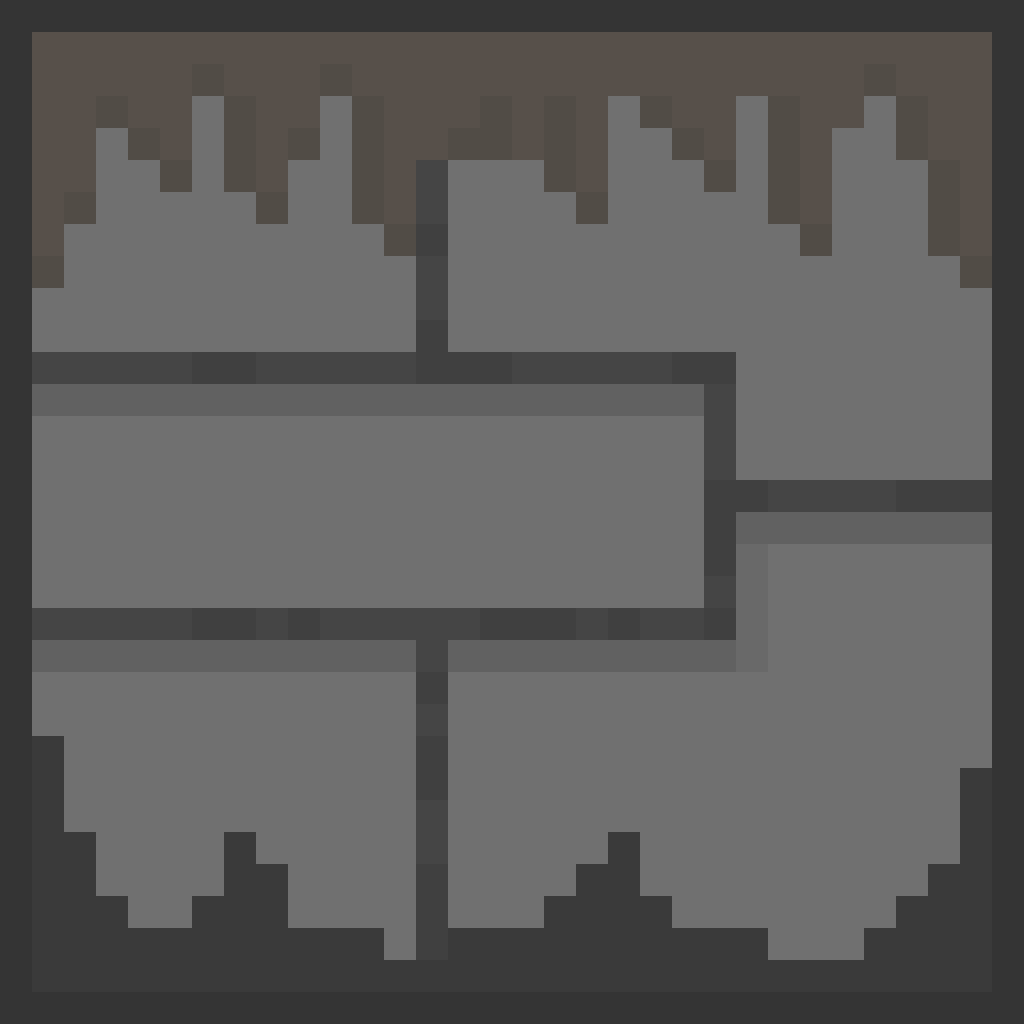
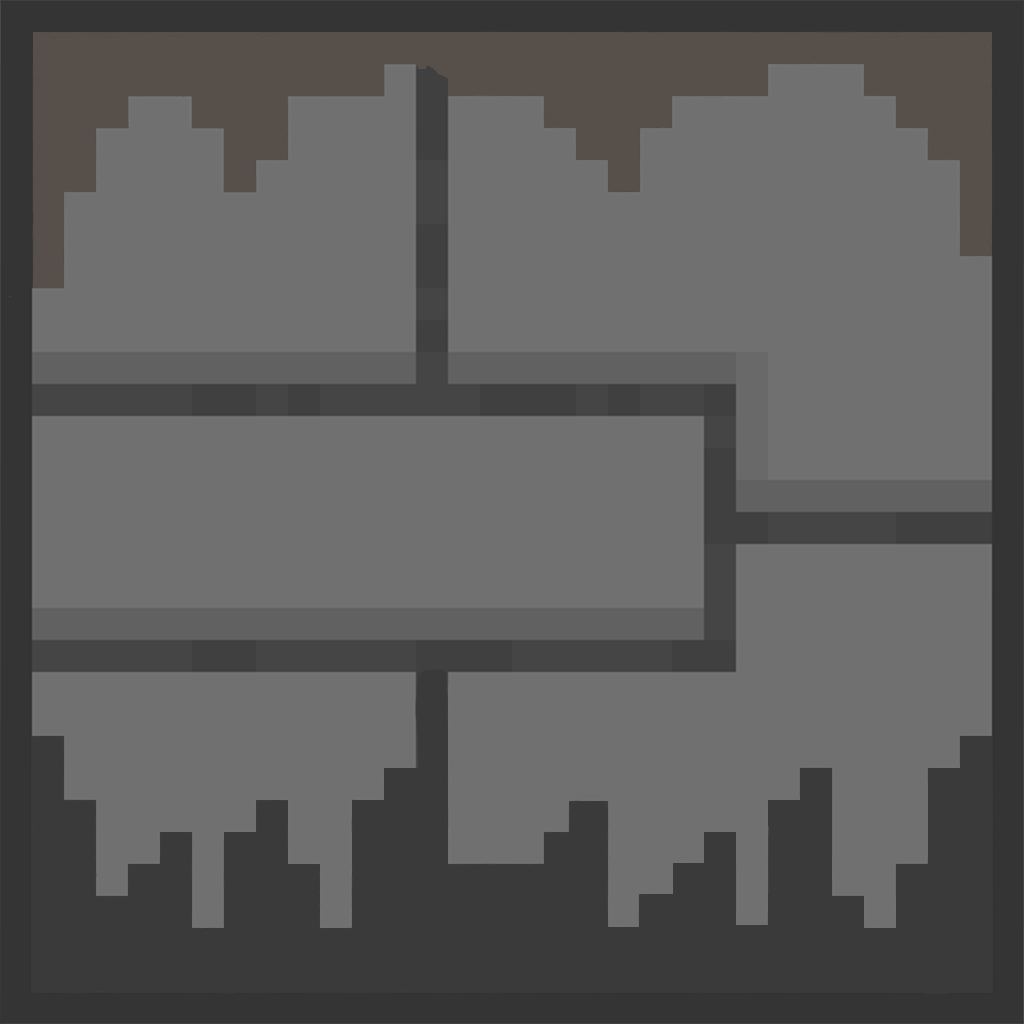
plataformas

diff --git a/maryu/Game1.cs b/maryu/Game1.cs
@@ -21,10 +21,10 @@ namespace maryu
         Personagem dimitri;
         private Rectangle background;
         Rectangle portal, historia2obj, menuobj, fimobj, clickerobj, historiacomeçoobj;
-        Rectangle[] paper = new Rectangle[5], messagem = new Rectangle[4];
-        Texture2D paperimagem, fundo, messagemimagem, portalimagem, historiacomeçoimagem, historia2imagem, menuimagem, fimimagem, clickerimagem;
+        Rectangle[] paper = new Rectangle[5], messagem = new Rectangle[4], plataformaobj = new Rectangle[4], blockersobj = new Rectangle[8];
+        Texture2D paperimagem, fundo, messagemimagem, portalimagem, historiacomeçoimagem, historia2imagem, menuimagem, fimimagem, clickerimagem, plataformaimagem;
         bool menu = true, game = false, historia2 = false, fim = false;
-        bool[] historiacomeço = new bool[5];
+        bool[] historiacomeço = new bool[5], blockers = new bool[4];
         int timer = 240;
 
         public Game1()
@@ -42,11 +42,28 @@ namespace maryu
             graphics.ApplyChanges();
 
             //>>>>>>>>-----------------------INICIAR COISASS---------------------------<<<<<<<
-            paper[0] = new Rectangle(((1000) + 50), (700), 30, 30);
-            paper[1] = new Rectangle(((2000) + 50), (1000), 30, 30);
-            paper[2] = new Rectangle(((5000) + 50), (400), 30, 30);
-            paper[3] = new Rectangle(((7000) + 50), (700), 30, 30);
-            paper[4] = new Rectangle(((10000) + 50), (900), 30, 30);
+
+            paper[0] = new Rectangle(1050, 700, 30, 30);
+            paper[1] = new Rectangle(2050, 1000, 30, 30);
+            paper[2] = new Rectangle(5050, 400, 30, 30);
+            paper[3] = new Rectangle(7050, 700, 30, 30);
+            paper[4] = new Rectangle(10050, 900, 30, 30);
+
+            for (int i = 0; i < blockers.Length; i++)
+			{
+                blockers[i] = true;
+			}
+
+            for (int i = 0; i < plataformaobj.Length; i++)
+            {
+                blockersobj[i] = new Rectangle((1050 * i), 600, 300, 77);
+                plataformaobj[i] = new Rectangle((1050 * i), 900, 300, 77);
+                blockersobj[i + 4] = new Rectangle((1050 * i), 1200, 300, 77);   
+            }
+            
+
+            
+
             maapa1 = new Mapa();
             dimitri = new Personagem(new Vector2(10, 4800));
   
@@ -109,11 +126,12 @@ namespace maryu
             dimitri.LoadContent(Content);
             paperimagem = Content.Load <Texture2D>("Varies/chip0");
             fundo = Content.Load<Texture2D>("Fundo/FundoPronto");
-            messagemimagem = Content.Load<Texture2D>("Messagens/messagem0");
+            messagemimagem = Content.Load<Texture2D>("Mensagens/mensagem0");
             historiacomeçoimagem = Content.Load<Texture2D>("começos/começo1");
             portalimagem = Content.Load<Texture2D>("Varies/porta");
             menuimagem = Content.Load<Texture2D>("Fundo/menu");
             clickerimagem = Content.Load<Texture2D>("Varies/clicker");
+            plataformaimagem = Content.Load<Texture2D>("Tijolos/moveble");
 
             for (int i = 0; i < paper.Length; i++)
             {
@@ -136,7 +154,7 @@ namespace maryu
             {
                 menuobj = new Rectangle((int)-camera.Transform.Translation.X, (int)-camera.Transform.Translation.Y, 2000, 1200);
                 dimitri.Posiçao.X = 10;
-                dimitri.Posiçao.Y = 800;
+                dimitri.Posiçao.Y = 300;
                 if (Keyboard.GetState().IsKeyDown(Keys.Space))
                 {
                     menu = false;
@@ -152,11 +170,13 @@ namespace maryu
             //----------------------------------------------------historia parte1--------------------------------------------------------------------
 
             //if (historiacomeço[0])
-            //{                  
-            //    historiacomeçoimagem = Content.Load<Texture2D>("Historias/começo1");
+            //{
+            //    historiacomeçoimagem = Content.Load<Texture2D>("Começos/começo1");
+
             //    --timer;
-            //    historiacomeçoobj = new Rectangle((int)-camera.Transform.Translation.X, (int)-camera.Transform.Translation.Y, 2000, 1200); 
-            //    if (timer <= 0)
+            //    historiacomeçoobj = new Rectangle((int)-camera.Transform.Translation.X, (int)-camera.Transform.Translation.Y, 2000, 1200);
+
+            //    if ((Keyboard.GetState().IsKeyDown(Keys.Space)) && timer <= 0)
             //    {
             //        timer = 240;
             //        historiacomeço[1] = true;
@@ -166,12 +186,14 @@ namespace maryu
             ////----------------------------------------------------historia parte2--------------------------------------------------------------------
             //if (historiacomeço[1])
             //{
-            //    historiacomeçoimagem = Content.Load<Texture2D>("Historias/começo2");
+            //    historiacomeçoimagem = Content.Load<Texture2D>("Começos/começo2");
             //    clickerobj.Height = 0;
             //    clickerobj.Width = 0;
+
             //    --timer;
             //    historiacomeçoobj = new Rectangle((int)-camera.Transform.Translation.X, (int)-camera.Transform.Translation.Y, 2000, 1200);
-            //    if (timer <= 0)
+
+            //    if ((Keyboard.GetState().IsKeyDown(Keys.Space)) && timer <= 0)
             //    {
             //        timer = 240;
             //        historiacomeço[2] = true;
@@ -181,12 +203,14 @@ namespace maryu
             ////----------------------------------------------------historia parte3--------------------------------------------------------------------
             //if (historiacomeço[2])
             //{
-            //    historiacomeçoimagem = Content.Load<Texture2D>("Historias/começo3");
+            //    historiacomeçoimagem = Content.Load<Texture2D>("Começos/começo3");
             //    clickerobj.Height = 0;
             //    clickerobj.Width = 0;
+
             //    --timer;
             //    historiacomeçoobj = new Rectangle((int)-camera.Transform.Translation.X, (int)-camera.Transform.Translation.Y, 2000, 1200);
-            //    if (timer <= 0)
+
+            //    if ((Keyboard.GetState().IsKeyDown(Keys.Space)) && timer <= 0)
             //    {
             //        timer = 240;
             //        historiacomeço[3] = true;
@@ -198,14 +222,14 @@ namespace maryu
 
             //if (historiacomeço[3])
             //{
-            //    historiacomeçoimagem = Content.Load<Texture2D>("Historias/começo4");
+            //    historiacomeçoimagem = Content.Load<Texture2D>("Começos/começo4");
             //    clickerobj.Height = 0;
             //    clickerobj.Width = 0;
 
             //    --timer;
             //    historiacomeçoobj = new Rectangle((int)-camera.Transform.Translation.X, (int)-camera.Transform.Translation.Y, 2000, 1200);
 
-            //    if (timer <= 0)
+            //    if ((Keyboard.GetState().IsKeyDown(Keys.Space)) && timer <= 0)
             //    {
             //        timer = 240;
             //        historiacomeço[4] = true;
@@ -217,7 +241,7 @@ namespace maryu
 
             //if (historiacomeço[4])
             //{
-            //    historiacomeçoimagem = Content.Load<Texture2D>("Historias/começo5");
+            //    historiacomeçoimagem = Content.Load<Texture2D>("Começos/começo5");
 
             //    --timer;
             //    historiacomeçoobj = new Rectangle((int)-camera.Transform.Translation.X, (int)-camera.Transform.Translation.Y, 2000, 1200);
@@ -249,8 +273,13 @@ namespace maryu
             {
                 if (dimitri.Rectangle.Intersects(paper[i]))
                 {
+                    --timer;
                     messagem[i] = new Rectangle(paper[i].X - 400, paper[i].Y - 400, 450, 450);
-                    messagemimagem = Content.Load<Texture2D>("Messagens/messagem" + i);
+                    messagemimagem = Content.Load<Texture2D>("Mensagens/mensagem" + i);
+                    if(timer <= 0)
+                    {
+                        messagem[i] = new Rectangle(0,0,0,0);
+                    }
                 }
             }
             //------------criar mensagens----------------------------------------
@@ -286,14 +315,43 @@ namespace maryu
                 dimitri.Collision(tile.Rectangle, maapa1.Width, maapa1.Height);
                 camera.Update(dimitri.Posiçao, maapa1.Width, maapa1.Height);
             }
-            //------------colisao do russo sobre os tijolos e camera-------------
 
             if (Keyboard.GetState().IsKeyDown(Keys.H))
             {
                 game = false;
                 menu = true;
             }
+            for (int i = 0; i < plataformaobj.Length; i++)
+            {
+                if (dimitri.Rectangle.Intersects(plataformaobj[i]))
+                {
+                    dimitri.Posiçao.Y -= 10.3f;
+                    dimitri.jump = false;
+                }    
+            }
+            
+            //------------colisao do russo sobre os tijolos e camera-------------
+            //------------------------------------plataformas moveis------------------------------------------------------------------
+            //for (int i = 0; i < plataformaobj.Length; i++)
+            //{
+            //    if (plataformaobj[i].Intersects(blockersobj[i]))
+            //    {
+            //        blockers[i] = false;
+            //    }
+            //    if (plataformaobj[i].Intersects(blockersobj[i+4]))
+            //    {
+            //        blockers[i] = true;
+            //    }
 
+            //    if (blockers[i])
+            //    {
+            //        plataformaobj[i].Y -= 2;
+            //    }
+            //    if (!blockers[i])
+            //    {
+            //        plataformaobj[i].Y += 2;
+            //    }    
+            //}
             //---------------------------------------------------------------------GAME--------------------------------------------------------------------------------
 
             base.Update(gameTime);
@@ -324,7 +382,10 @@ namespace maryu
                 background = new Rectangle((int)-camera.Transform.Translation.X, (int)-camera.Transform.Translation.Y, 2000, 1200);
                 spriteBatch.Draw(fundo, background, Color.White);
                 maapa1.Draw(spriteBatch);
-
+                for (int i = 0; i < plataformaobj.Length; i++)
+                {
+                    spriteBatch.Draw(plataformaimagem, plataformaobj[i], Color.White);    
+                }
                 for (int i = 0; i < paper.Length; i++)
                 {
                     spriteBatch.Draw(paperimagem, paper[i], Color.White);

diff --git a/maryu/personagem.cs b/maryu/personagem.cs
@@ -15,9 +15,8 @@ namespace maryu
         private Vector2 Velocidade;
         public Animaçao spriteShit;
         public Rectangle Rectangle;
-        private bool jump;
-        public Vector2 Posiçaosave;
-        StreamWriter save;
+        public bool jump;
+        private int timerjump = 20;
 
 
         public Personagem(Vector2 position)
